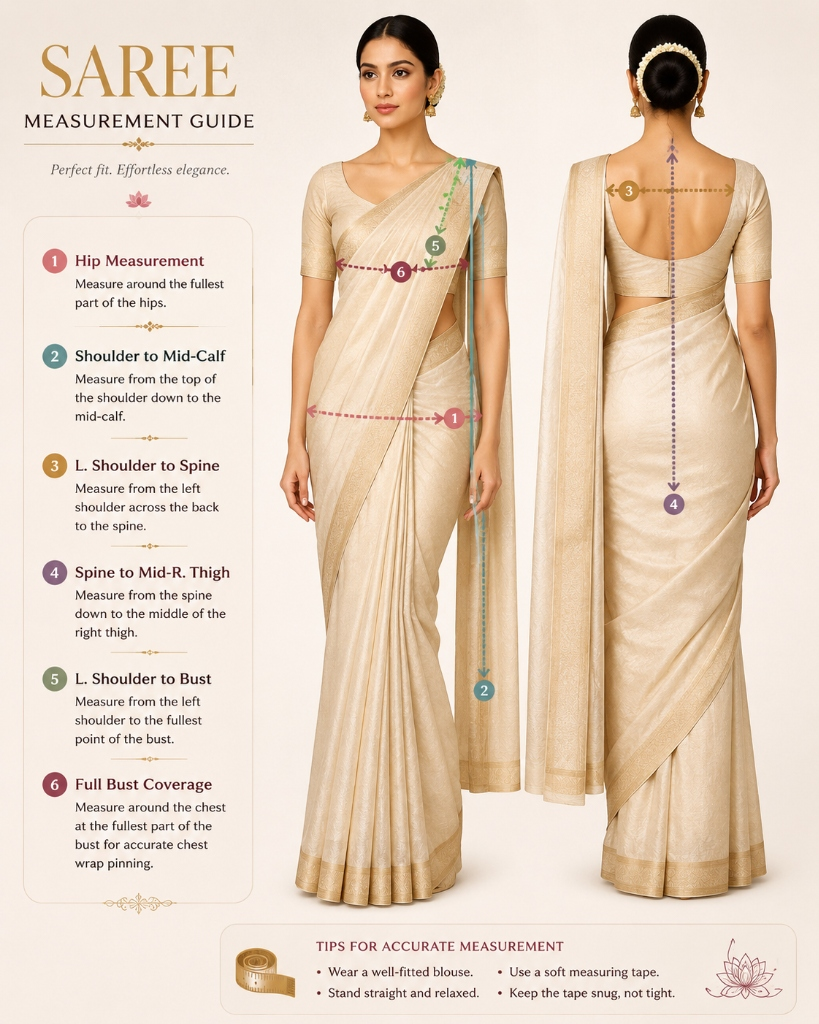
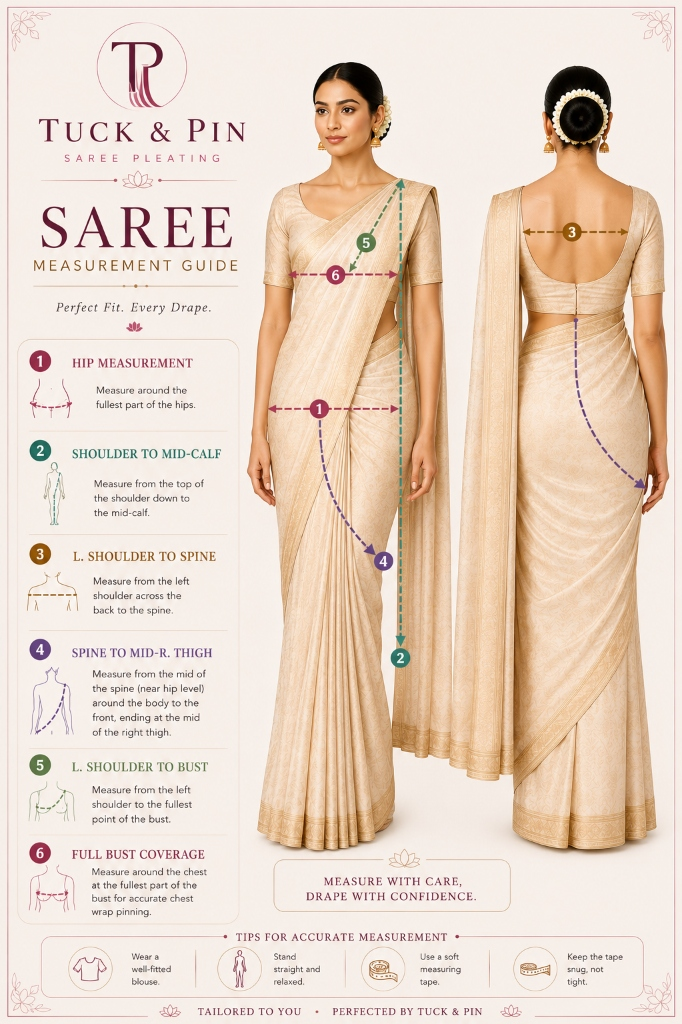
feat: replace measurement guide diagram image with high-definition Tuck & Pin infographic and align guide instructions

diff --git a/src/components/BookingForm.tsx b/src/components/BookingForm.tsx
@@ -60,23 +60,23 @@ export default function BookingForm({ initialServiceId = '', selectedPhotoUrl = 
   const measurementGuides = {
     hip: {
       title: 'Hip Measurement',
-      desc: 'Measure around the fullest part of your hips/buttocks where the saree skirt is normally pinned or secured.',
+      desc: 'Measure around the fullest part of the hips.',
     },
     pallu: {
       title: 'Shoulder to Mid-Calf',
-      desc: 'Measure from your left shoulder peak down to your mid-calf or ankle. This determines your Pallu drape length.',
+      desc: 'Measure from the top of the shoulder down to the mid-calf.',
     },
     lsSpine: {
-      title: 'Left Shoulder to Mid-Spine',
-      desc: 'Measure from your left shoulder peak curving down to the mid-point of your upper spine.',
+      title: 'Left Shoulder to Spine',
+      desc: 'Measure from the left shoulder across the back to the spine.',
     },
     spineThigh: {
-      title: 'Mid of Spine (near hip) to Front Right Thigh',
-      desc: 'Mid of spine near hip and come from back to front right thigh.',
+      title: 'Spine to Mid-R. Thigh',
+      desc: 'Measure from the mid of the spine (near hip level) around the body to the front, ending at the mid of the right thigh.',
     },
     lsBust: {
-      title: 'Left Shoulder to Mid-Bust',
-      desc: 'Measure from the top left shoulder peak down to the midpoint of your bust line.',
+      title: 'Left Shoulder to Bust',
+      desc: 'Measure from the left shoulder to the fullest point of the bust.',
     },
     bust: {
       title: 'Full Bust Coverage',
